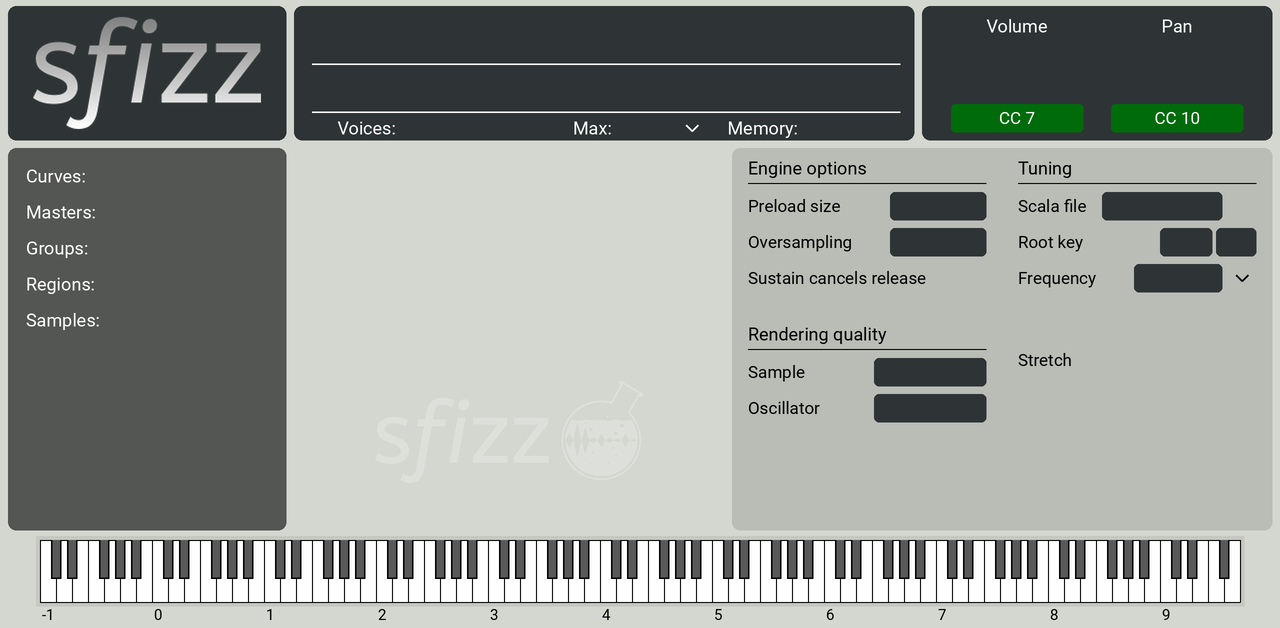
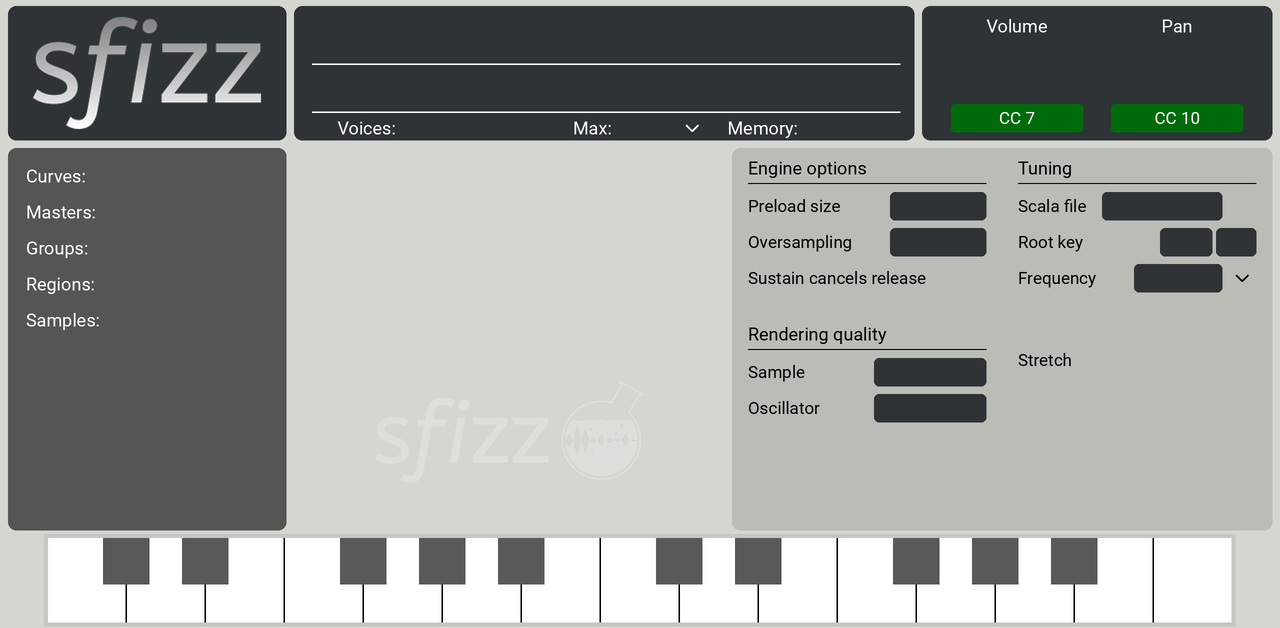
Playable keyboard: two octaves and a C, lit while sounding, tap to play
White keys take touches below the black keys (no overlapping touch boxes),
black keys in four list groups; the engine lights keys from MIDI and taps
(<key>_on) and plays a tap for 0.6 s. Octave buttons; octave in the state.
Params appended after 1.0.2's.

Claude-Session: https://claude.ai/code/session_0111ATotmoxhfhKJ71MbSYU1

Changed region(s): [[0.0312, 0.8471, 0.9688, 0.9984]]

diff --git a/design.py b/design.py
@@ -45,7 +45,16 @@ INFOP = (8, 148, 278, 382)
 CTRLP = (294, 148, 430, 382)
 SETP = (732, 148, 540, 382)
 BROWSER = (8, 148, 716, 382)      # covers Information + Controls while browsing
-KEYS = (40, 540, 1200, 62)        # piano: 75 white keys, notes 0..127
+# the playable keyboard: two octaves and a C (15 white keys) between octave buttons. White keys take touches below the
+# black keys (touch boxes must not overlap), black keys above; both are list tiles the engine lights while sounding.
+KB_X, KB_Y, KB_H = 48, 538, 84
+KB_TW, KB_GAP = 77, 2             # white tile width and gap: pitch 79, 15 keys = 1183 px
+KB_P = KB_TW + KB_GAP
+KB_BW, KB_BH = 46, 46             # black key
+KB_WY = KB_Y + KB_BH + 2          # white keys' touch band
+KB_WH = KB_Y + KB_H - KB_WY
+KB_BLACK_GROUPS = (("kba", (0, 1)), ("kbb", (3, 4, 5)), ("kbc", (7, 8)), ("kbd", (10, 11, 12)))   # white key before each
+KEY_LIT = (0xfd, 0xb4, 0x4c)      # a sounding white key (a sounding black key is ORANGE)
 
 FX = FILEBOX[0] + 18              # file box text left edge
 FX2 = FILEBOX[0] + FILEBOX[2] - 14
@@ -116,32 +125,32 @@ def chevron(c, cx, cy, size, direction, fill, width=2.2):
 # ---- the page ----
 
 def piano(c):
-    x0, y0, kw_total, kh = KEYS
-    n_white = sum(1 for k in range(128) if k % 12 in (0, 2, 4, 5, 7, 9, 11))
-    ww = kw_total / n_white
-    c.rect(x0 - 4, y0 - 4, kw_total + 8, kh + 8, (0xc4, 0xc8, 0xc0))
-    xs = {}
-    i = 0
-    for k in range(128):
-        if k % 12 in (0, 2, 4, 5, 7, 9, 11):
-            x = x0 + i * ww
-            xs[k] = x
-            c.rect(x, y0, ww, kh, WHITE)
-            c.line([(x, y0), (x, y0 + kh)], INK, 1)
-            i += 1
-    c.line([(x0 + kw_total, y0), (x0 + kw_total, y0 + kh)], INK, 1)
-    c.line([(x0, y0), (x0 + kw_total, y0)], INK, 1)
-    c.line([(x0, y0 + kh), (x0 + kw_total, y0 + kh)], INK, 1)
-    bw, bh = ww * 0.6, kh * 0.62
-    for k in range(128):
-        if k % 12 in (1, 3, 6, 8, 10):
-            x = xs[k - 1] + ww - bw / 2
-            c.rect(x, y0, bw, bh, INK)
-            c.rect(x + 1.2, y0, bw - 2.4, bh - 1.4, KEY_BLACK)
-    for octave in range(11):   # C-1 .. C9, as sfizz numbers octaves (middle C = C4)
-        k = octave * 12
-        if k in xs:
-            c.text(xs[k] + 2, y0 + kh + 13, str(octave - 1), 15, INK, anchor="lm")
+    """The keyboard under its tiles: white keys (their upper part, above the touch band, is only drawn here), the
+    black keys, and the octave buttons' wells."""
+    w = 15 * KB_P - KB_GAP
+    c.rect(KB_X - 4, KB_Y - 4, w + 8, KB_H + 8, (0xc4, 0xc8, 0xc0))
+    c.rect(KB_X, KB_Y, w, KB_H, INK)
+    for i in range(15):
+        c.rect(KB_X + i * KB_P, KB_Y, KB_TW, KB_H, WHITE)
+    for _, whites in KB_BLACK_GROUPS:
+        for i in whites:
+            x = KB_X + i * KB_P + KB_TW + KB_GAP / 2 - KB_BW / 2
+            c.rect(x, KB_Y, KB_BW, KB_BH, KEY_BLACK)
+
+
+def key_tiles():
+    """List-tile pictures for the keys: off and sounding."""
+    out = {}
+    for name, w, h, off, on in (("kw", KB_TW, KB_WH, WHITE, KEY_LIT), ("kb", KB_BW, KB_BH, KEY_BLACK, ORANGE)):
+        for state, fill in (("off", off), ("on", on)):
+            c = Canvas(w, h)
+            if name == "kb":
+                c.rect(0, 0, w, h, INK)
+                c.rect(1.2, 0, w - 2.4, h - 1.4, fill)
+            else:
+                c.rect(0, 0, w, h, fill)
+            out[name, state] = c.save("key_%s_%s.png" % (name, state))
+    return out
 
 
 def header(c):
@@ -467,6 +476,20 @@ def write_layout(a):
         "color=2e3436", "when=browse:On"))
     o(L("readout", "cx=%d cy=%d w=%d h=28" % (bx + bw // 2, ly(by + bh - 18), bw - 40), 'label=""', "key=status",
         "tsize=22 tfont=Roboto tcolor=b2b2b2", "when=browse:On"))
+    # keyboard: octave buttons, white keys (touch band below the black keys), black keys in their four groups
+    o(L("button", "cx=%d cy=%d" % (KB_X - 24, ly(KB_Y + KB_H // 2)), 'label=""', "key=kb_down",
+        "img=%s img_on=%s w=36 h=%d" % (a["kb_down"][0], a["kb_down"][1], KB_H)))
+    o(L("button", "cx=%d cy=%d" % (KB_X + 15 * KB_P - KB_GAP + 24, ly(KB_Y + KB_H // 2)), 'label=""', "key=kb_up",
+        "img=%s img_on=%s w=36 h=%d" % (a["kb_up"][0], a["kb_up"][1], KB_H)))
+    o(L("list", "x=%d y=%d w=%d h=%d" % (KB_X, ly(KB_WY), 15 * KB_P - KB_GAP, KB_WH),
+        "cols=15 rows=1 th=%d gap=%d key=kw" % (KB_WH, KB_GAP), "img=%s img_on=%s" % (a["keys"]["kw", "off"], a["keys"]["kw", "on"]),
+        "tsize=20 tfont=Roboto tcolor=595959 talign=center"))
+    for name, whites in KB_BLACK_GROUPS:
+        n = len(whites)
+        x = KB_X + whites[0] * KB_P + KB_TW + KB_GAP // 2 - KB_BW // 2
+        o(L("list", "x=%d y=%d w=%d h=%d" % (x, ly(KB_Y), n * KB_BW + (n - 1) * (KB_P - KB_BW), KB_BH),
+            "cols=%d rows=1 th=%d gap=%d key=%s" % (n, KB_BH, KB_P - KB_BW, name),
+            "img=%s img_on=%s" % (a["keys"]["kb", "off"], a["keys"]["kb", "on"]), "tsize=20 tfont=Roboto tcolor=ffffff"))
     o('qlinks "SFIZZ" = volume,pan,cc_1,cc_2,cc_3,cc_4,cc_5,cc_6,cc_7,cc_8,tuning_freq,stretch,sample_quality,osc_quality,-,-')
     open(os.path.join(HERE, "layout.conf"), "w").write("\n".join(out) + "\n")
 
@@ -492,6 +515,9 @@ def main():
     a["pgdn"] = tuple(icon_button("pgdn", 34, 34, lambda c, x, y, col: chevron(c, x, y, 16, "down", col)))
     a["reset"] = tuple(icon_button("reset", 30, 28, cross, bg=DARK))
     a["check"] = tuple(checkbox())
+    a["keys"] = key_tiles()
+    a["kb_down"] = tuple(icon_button("kb_down", 36, KB_H, lambda c, x, y, col: chevron(c, x, y, 18, "left", col), bg=DARK))
+    a["kb_up"] = tuple(icon_button("kb_up", 36, KB_H, lambda c, x, y, col: chevron(c, x, y, 18, "right", col), bg=DARK))
     a["scala"] = tuple(pill_button("scala", settings_pills()[4][2], 28, DARK))
     write_layout(a)
     print("art/ and layout.conf written")

diff --git a/tools/mock_screen.py b/tools/mock_screen.py
@@ -3,7 +3,8 @@
 sample values drawn where MPC draws its live labels (Roboto, the sizes and colours in TUI.json). For checking the design
 against sfizz's own editor before anything goes to a device; MPC itself draws the real thing.
 
-    tools/mock_screen.py "<plugin folder>" params.json out.png [key=value ...] [--show <param>=<option index> ...]
+    tools/mock_screen.py "<plugin folder>" params.json out.png [key=value ...] [+<param>=<option index> ...]
+    key=value is a live text; key_on=1 lights a list tile; key@=0..1 is a knob's position.
 """
 import json
 import os
@@ -79,6 +80,8 @@ def main():
                 b = Image.open(os.path.join(pdir, sd["data"]["offImage"])).convert("RGBA")
                 bid = sd["data"].get("buttonId", 0)
                 if sd["data"].get("numButtonsInGroup", 1) > 1 and key and str(values.get(key, "")) == str(bid):
+                    b = Image.open(os.path.join(pdir, sd["data"]["onImage"])).convert("RGBA")
+                elif key and values.get(key + "_on") == "1":   # a list tile the engine lights (key_on=1)
                     b = Image.open(os.path.join(pdir, sd["data"]["onImage"])).convert("RGBA")
                 im.alpha_composite(b, (int(x + sx), int(y + sy)))
             elif sd["type"] == "Label":

diff --git a/tests/vsthost.c b/tests/vsthost.c
@@ -67,6 +67,13 @@ int main(int argc, char **argv) {
         }
         for (int q = 11; q <= 20; q++) printf("  param %d name=\"%s\" value=\"%s\"\n", q, pname(q), disp(q));
         midi(0x90, 60, 110); printf("note 60 rms %.4f\n", run(150)); midi(0x80, 60, 0); run(100);
+        {   /* the on-screen keyboard: tap its C4 (the 8th white key at the default octave), as a screen touch would */
+            int k = find("Key C+1");
+            printf("keyboard: \"%s\" key shows \"%s\"\n", pname(k), disp(k));
+            fx->setParameter(fx, k, 1.0f);
+            printf("tap rms %.4f", run(100));
+            printf(", after 1.4 s rms %.4f\n", (run(300), run(100)));
+        }
         char *c = 0; intptr_t n = fx->dispatcher(fx, 23, 0, 0, &c, 0);
         printf("chunk %ld bytes, first line: %.*s\n", (long)n, (int)strcspn(c, "\n"), c);
     }
